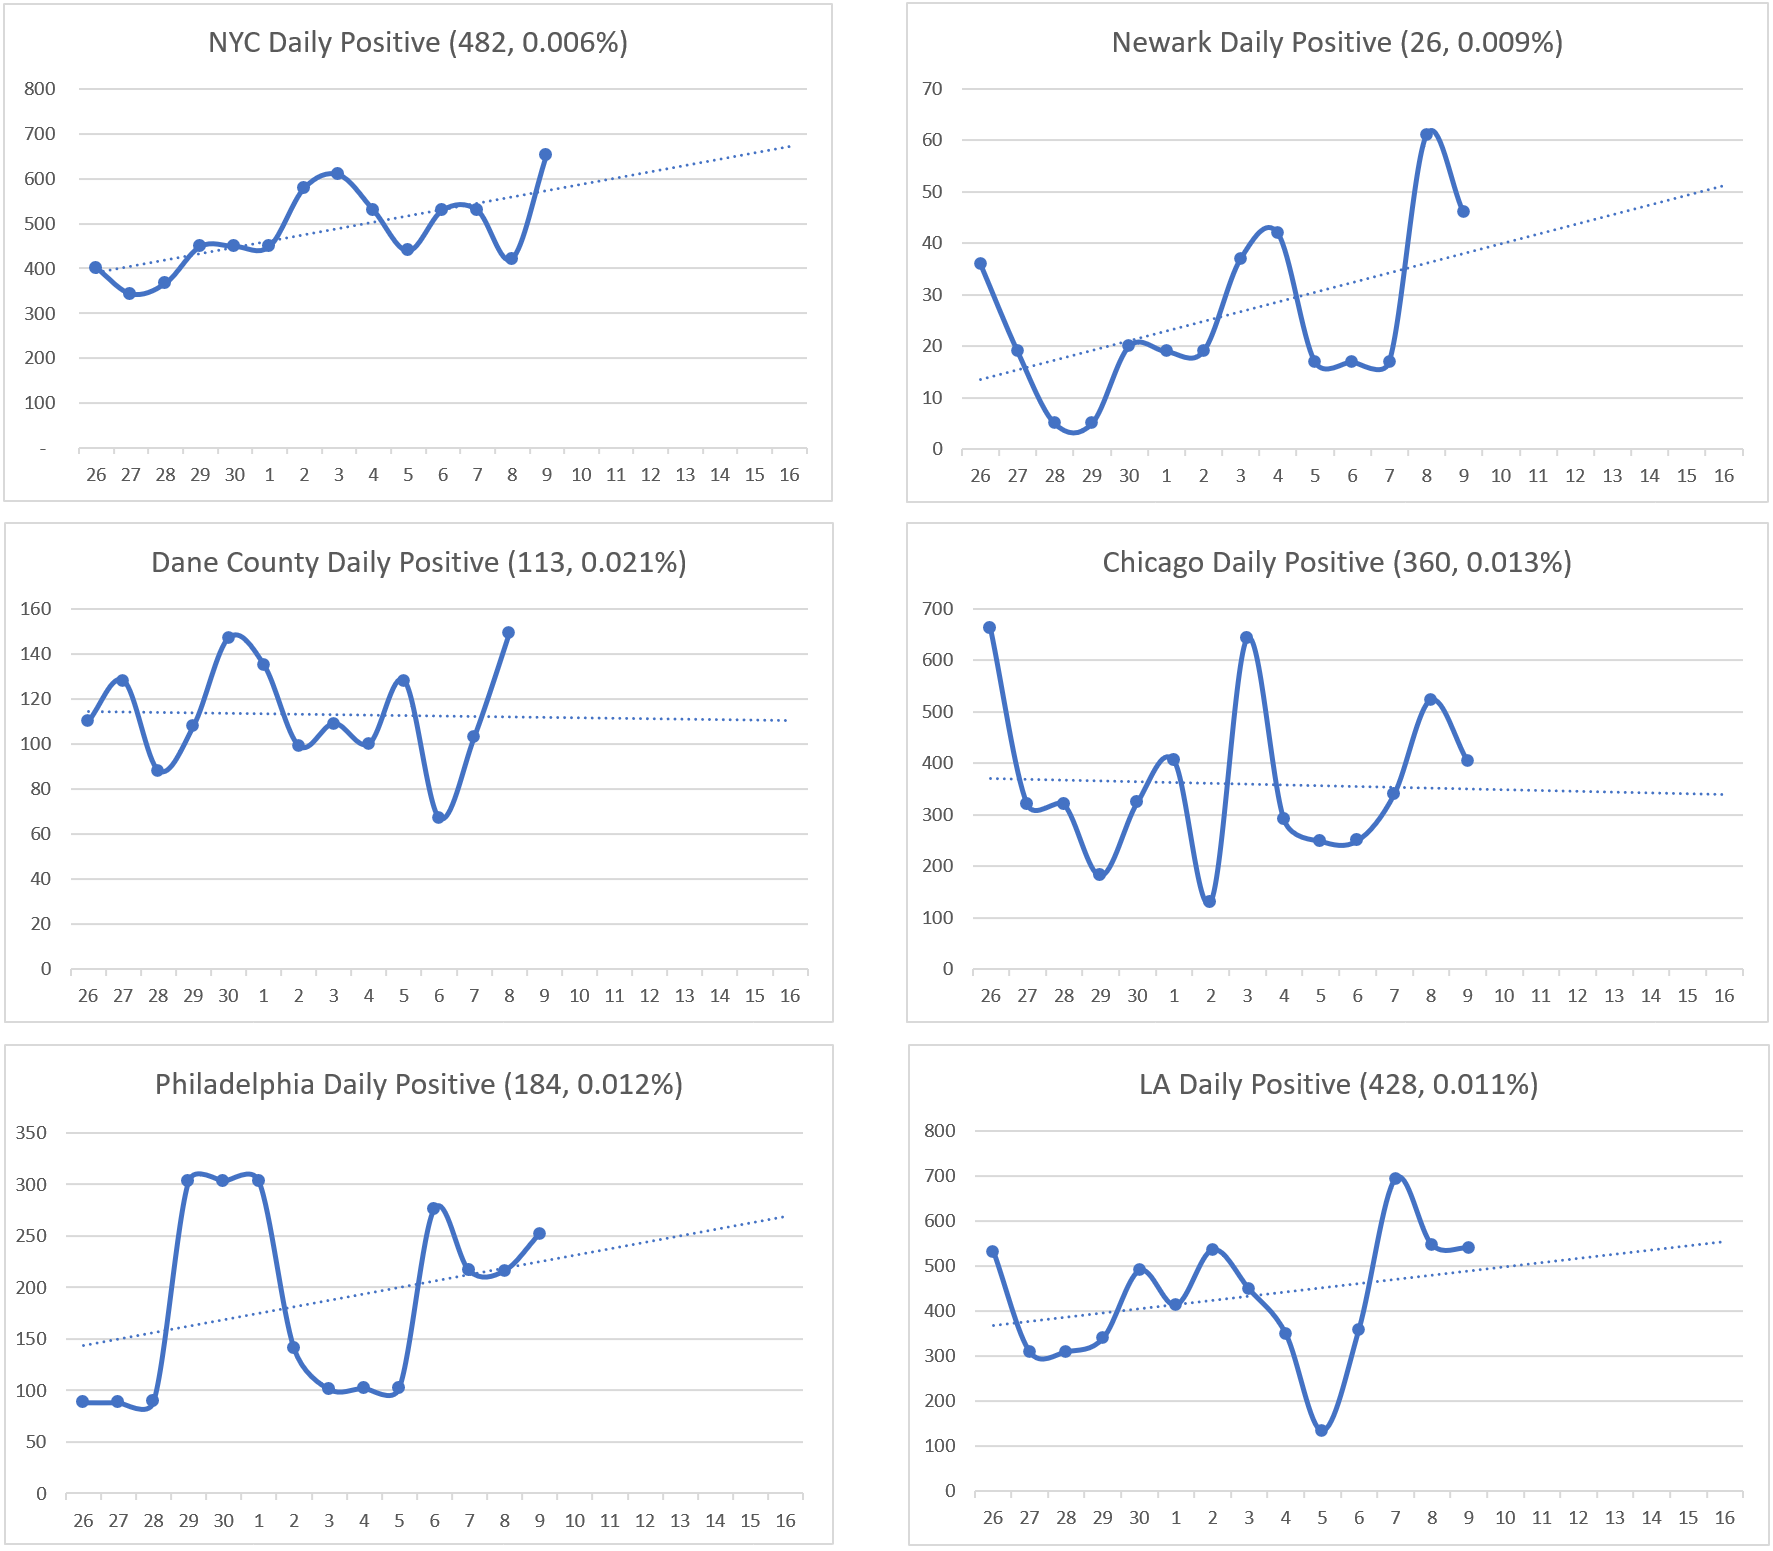
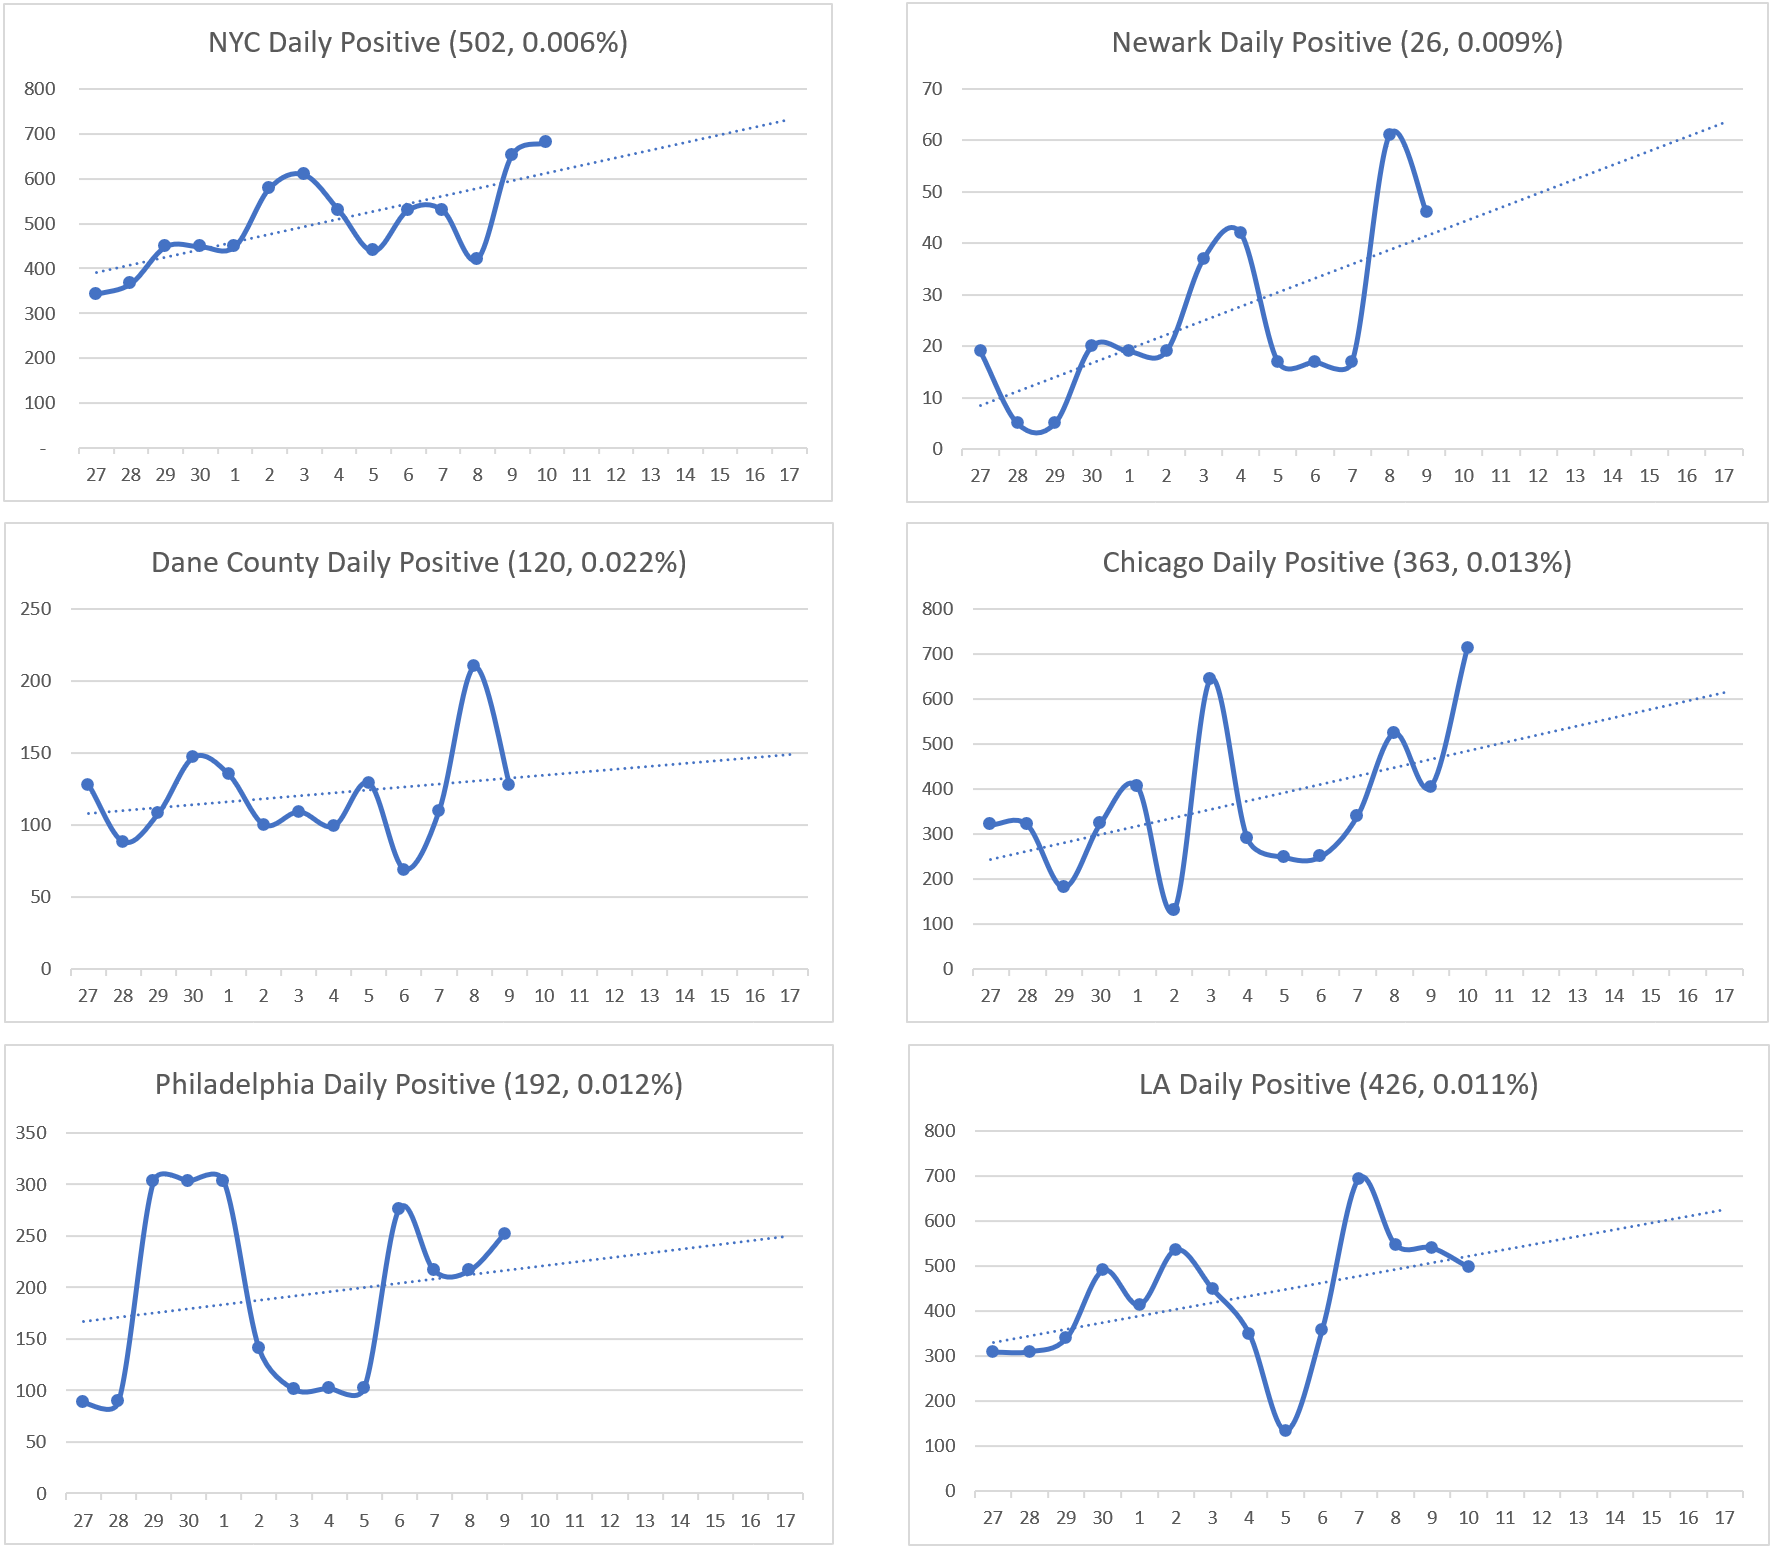
update 10/10 status

diff --git a/index.html b/index.html
@@ -19,7 +19,7 @@
 
 <body class="container-fluid">
 	<h1> CoronaV for Friends</h1>
-	<h2> Data updated at Oct 09 2020 EST 20:15</h2>
+	<h2> Data updated at Oct 10 2020 EST 22:45</h2>
 	<hr>
 	<main>
 		<div class="row">
